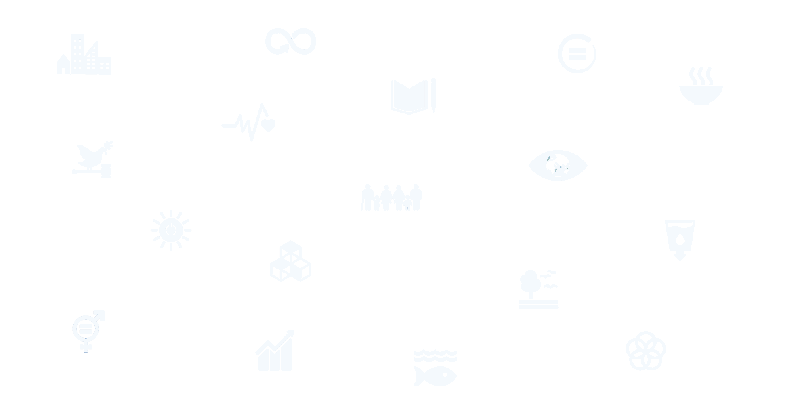
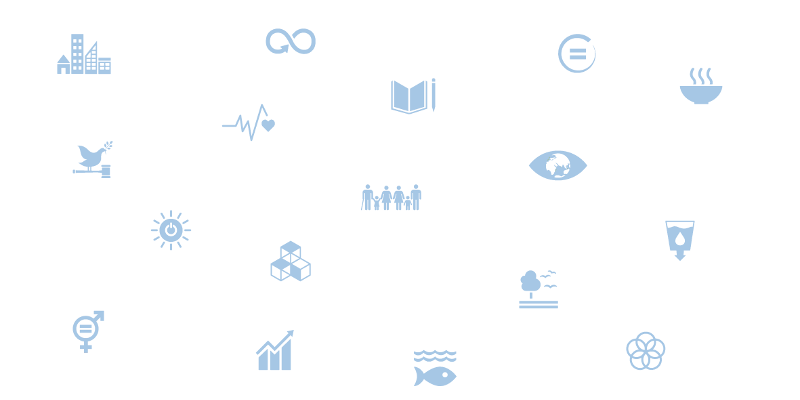
Adapted look of webpage to the wishes of the Team.

diff --git a/index-bootstrap.html b/index-bootstrap.html
@@ -54,25 +54,22 @@
 
       <div class="row">
 
-        <div class="col-md-2 col-md-offset-6" style="padding:0px;">
+        <div class="col-md-8 col-md-offset-2" style="padding:0px;">
           <img src="resources/2030-watch.png" style="text-align:center;" alt="2030-watch.de"></img>
         </div>
       </div>
 
       <div class="row">
-        <div class="white col-md-8 col-md-offset-3">
-          <p>
-            <em>2030-watch.de</em> ist ein Monitoring der im September 2015 von
-            den Vereinten Nationen (UN) verabschiedeten <em>nachhaltigen
-              Entwicklungsziele</em>, den <em>Sustainable Development Goals
-              (SDGs)</em>. Alle UN Mitgliedsstaaten, auch die deutsche
-            Bundesregierung, haben sich verpflichtet, diese 17 Ziele und
-            169 Unterziele zur nachhaltigen Entwicklung umzusetzen. Dazu
-            werden nationale Umsetzungspläne erarbeitet. <em>2030-watch.de</em>
-            überwacht und visualisiert die Umsetzung der SDGs in
-            Deutschland und ermöglicht Bürgern, zivilgesellschaftlichen
-            Organisationen, Journalisten und Oppositionspolitikern ein
-            Monitoring Deutschlands globaler Verantwortungsübernahme.
+        <div class="white col-md-8 col-md-offset-2">
+          <p style="font-size:small">
+            Die <em>nachhaltigen Entwicklungsziele</em> (<em>Sustainable
+              Development Goals</em> - <em>SDGs</em>) wurden im September 2015
+            von den Vereinten Nationen vereinbart. Alle
+            UN-Mitgliedsstaaten, auch Deutschland, haben sich
+            verpflichtet, diese 17 Ziele und 169 Unterziele bis
+            2030 umzusetzen. <em>2030-Watch</em> überwacht und
+            visualisiert die Umsetzung der nachhaltigen
+            Entwicklungsziele in Deutschland.
           </p>
         </div>
       </div>
@@ -85,7 +82,7 @@
 
           <div>
 
-            <h2 style="margin:30px; text-align:center;">Deutschlands nachhaltige Entwicklungsziele</h2>
+            <h2 style="margin:30px; text-align:center;">Deutschlands Umsetzung der SDGs</h2>
 
             <div class="col-md-6">
 
@@ -154,21 +151,6 @@
             <div class="col-md-6 col-md-offset-0">
 
               <div class="row">
-                <div class="col-md-10 col-md-offset-1">
-                  <p style="font-size:small">
-                    Die nachhaltigen Entwicklungsziele (Sustainable
-                    Development Goals - SDGs) wurden im September 2015
-                    von den Vereinten Nationen vereinbart. Alle
-                    UN-Mitgliedsstaaten, auch Deutschland, haben sich
-                    verpflichtet, diese 17 Ziele und 169 Unterziele bis
-                    2030 umzusetzen. 2030-Watch überwacht und
-                    visualisiert die Umsetzung der nachhaltigen
-                    Entwicklungsziele in Deutschland.
-                  </p>
-                </div>
-              </div>
-
-              <div class="row">
                 <div class="col-md-12">
                   <div style="padding:30px;">
                     <svg id="visPane" style="width:100%; height:250px; margin:auto; display:block;"></svg>
@@ -214,7 +196,7 @@
         </div>
       </div>
 
-      <div class="white row">
+      <div class="row">
         <div class="col-md-4">
           <p onmouseover="style.color = 'red'" onmouseout="style.color = ''" style="text-align:right; cursor:pointer;" onclick="sortCountryVisByCountry('Germany');">
             <b><span onmouseover="style.color='red';" onmouseout="style.color = '';">Deutschland</span></b><br>
@@ -355,7 +337,7 @@
       <div class="panel-group" id="accordion" role="tablist" aria-multiselectable="true">
 
         <div class="panel panel-default">
-          <div class="panel-heading" role="tab" id="headingOne">
+          <div class="panel-heading panel-heading-custom" role="tab" id="headingOne">
             <h4 class="panel-title">
               <a role="button" data-toggle="collapse" data-parent="#accordion" href="#collapseOne" aria-expanded="false" aria-controls="collapseOne">
                 Über das Projekt...
@@ -639,7 +621,7 @@
 
         <div class="panel panel-default">
 
-          <div class="panel-heading" role="tab" id="headingTwo">
+          <div class="panel-heading panel-heading-custom" role="tab" id="headingTwo">
             <h4 class="panel-title">
               <a role="button" data-toggle="collapse" data-parent="#accordion" href="#collapseTwo" aria-expanded="false" aria-controls="collapseTwo">
                 Über die SDGs...
@@ -748,7 +730,7 @@
 
         <div class="panel panel-default">
 
-          <div class="panel-heading" role="tab" id="headingThree">
+          <div class="panel-heading panel-heading-custom" role="tab" id="headingThree">
             <h4 class="panel-title">
               <a role="button" data-toggle="collapse" data-parent="#accordion" href="#collapseThree" aria-expanded="false" aria-controls="collapseThree">
                 Über uns...

diff --git a/resources/data.js b/resources/data.js
@@ -63,5 +63,12 @@ var getInfos = function (country, index) {
         var score = 6;
     }
 
-    return "<b>" + country + "</b> - " + title + "<br>Wert " + value + ' <b> ' + translation[score-1] + '</b>';
+    try {
+        var unit = indicator["unit"];
+    }
+    catch (error) {
+        var unit = '';
+    }
+
+    return title + "Wert " + value + ' ' + unit + ' <b> ' + translation[score-1] + '</b>';
 };

diff --git a/resources/2030.css b/resources/2030.css
@@ -14,3 +14,20 @@ a.anchor {
 .white {
     background-color: white;
 }
+
+.jumbotron {
+    background-color: #e5f2ff;
+}
+
+.navbar {
+    background-color: #e5f2ff;
+}
+
+.panel-body {
+    background-color: #e5f2ff;
+}
+
+.panel-heading-custom {
+    background-image: none;
+    background: #e5f2ff !important;
+}
